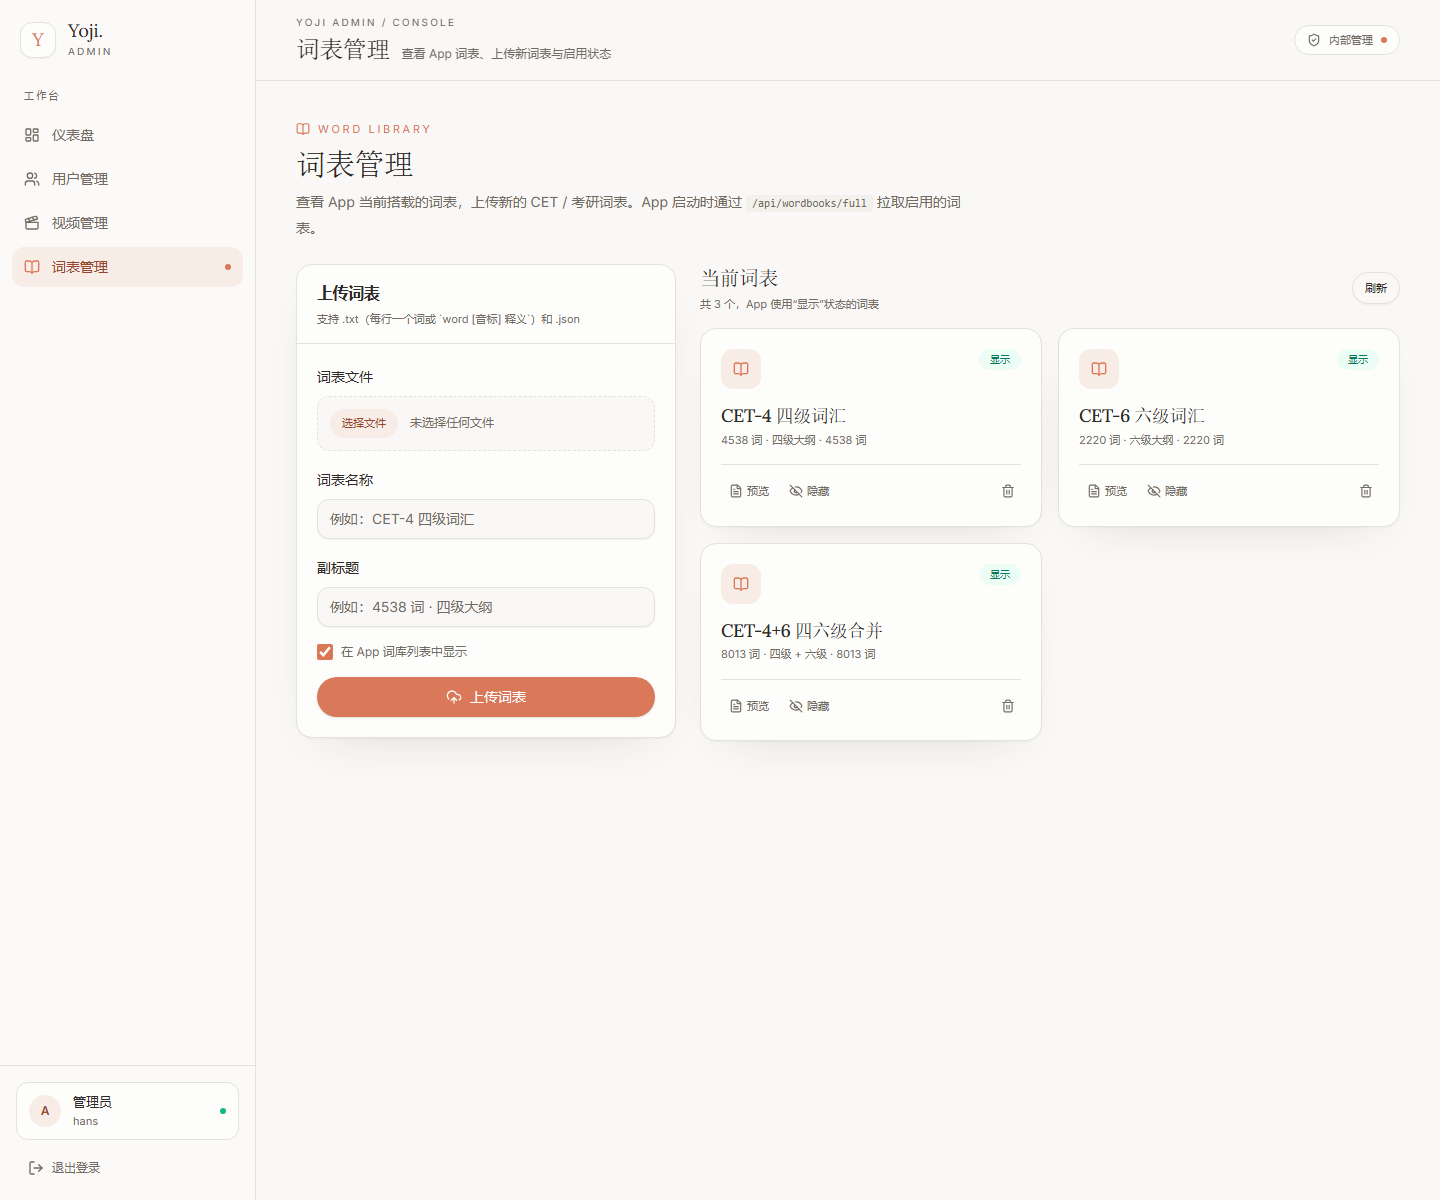
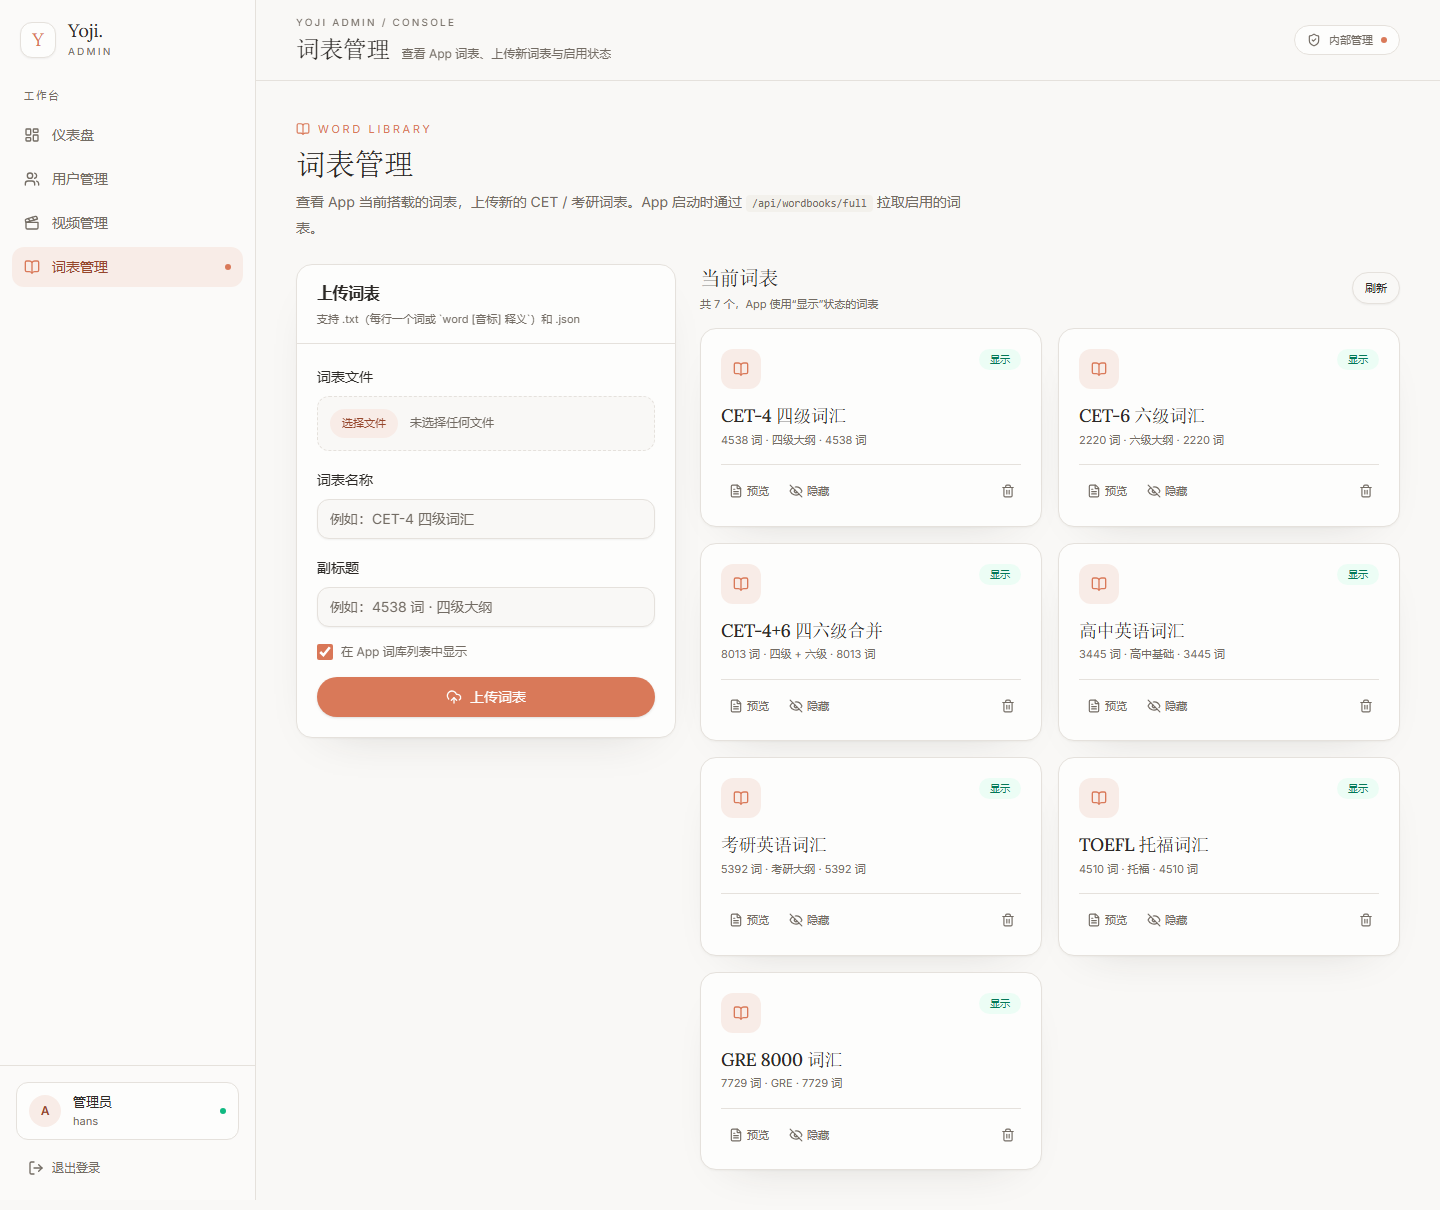
feat: expand wordbooks to high school, postgraduate, TOEFL and GRE

diff --git a/server/scripts/import-wordbooks.js b/server/scripts/import-wordbooks.js
@@ -13,19 +13,28 @@ function readIfExists(name) {
 
 const cet4Text = readIfExists('CET4_edited.txt');
 const cet6Text = readIfExists('CET6_edited.txt');
-const cet46Text = readIfExists('CET_4+6_edited.txt');
 if (!cet4Text || !cet6Text) {
-  console.error(`找不到词表文件，请确认目录：${dir}`);
+  console.error(`找不到 CET4_edited.txt / CET6_edited.txt，请确认目录：${dir}`);
   process.exit(1);
 }
 
 const cet4 = parseWordList(cet4Text, 'cet4');
 const cet6 = parseWordList(cet6Text, 'cet6');
-const cet46 = cet46Text ? parseWordList(cet46Text, 'cet4-6') : [];
+const cet46 = parseWordList(readIfExists('CET_4+6_edited.txt'), 'cet4-6');
+const high = parseWordList(readIfExists('Highschool_edited.txt'), 'highschool');
+const npee = parseWordList(readIfExists('NPEE_Wordlist.txt'), 'npee');
+const toefl = parseWordList(readIfExists('TOEFL.txt'), 'toefl');
+const gre = parseWordList(readIfExists('GRE_8000_Words.txt'), 'gre');
 const kyle4 = parseWordList(readIfExists('cet4_kyle.txt'), 'kyle4');
 const kyle6 = parseWordList(readIfExists('cet6_kyle.txt'), 'kyle6');
+const oald = parseWordList(readIfExists('OALD8_abridged_edited.txt'), 'oald');
+
+const dictionaries = [cet4, cet6, npee, toefl, gre, oald, kyle4, kyle6];
 if (cet46.length > 0) {
-  enrichWords(cet46, [cet4, cet6, kyle4, kyle6]);
+  enrichWords(cet46, dictionaries);
+}
+if (high.length > 0) {
+  enrichWords(high, dictionaries);
 }
 
 const books = [
@@ -49,17 +58,58 @@ const books = [
   }
 ];
 
-if (cet46.length > 0) {
-  books.push({
-    id: 'cet4-6',
-    name: 'CET-4+6 四六级合并',
-    subtitle: `${cet46.length} 词 · 四级 + 六级`,
-    description: '四级与六级合并词表；能匹配到的词已补充释义。',
-    source: 'CET_4+6_edited.txt',
-    words: cet46,
-    sortOrder: 3
-  });
+function addBook(id, name, subtitle, description, source, words, sortOrder) {
+  if (words.length === 0) {
+    return;
+  }
+  books.push({ id, name, subtitle, description, source, words, sortOrder });
 }
+
+addBook(
+  'cet4-6',
+  'CET-4+6 四六级合并',
+  `${cet46.length} 词 · 四级 + 六级`,
+  '四级与六级合并词表；已用考研/托福/GRE/OALD 补充能匹配到的释义。',
+  'CET_4+6_edited.txt',
+  cet46,
+  3
+);
+addBook(
+  'highschool',
+  '高中英语词汇',
+  `${high.length} 词 · 高中基础`,
+  '高中英语常用词汇，适合作为四六级前的过渡词库。',
+  'Highschool_edited.txt',
+  high,
+  4
+);
+addBook(
+  'npee',
+  '考研英语词汇',
+  `${npee.length} 词 · 考研大纲`,
+  '考研英语大纲词汇，含音标与中文释义。',
+  'NPEE_Wordlist.txt',
+  npee,
+  5
+);
+addBook(
+  'toefl',
+  'TOEFL 托福词汇',
+  `${toefl.length} 词 · 托福`,
+  'TOEFL 托福词汇，含音标与中文释义。',
+  'TOEFL.txt',
+  toefl,
+  6
+);
+addBook(
+  'gre',
+  'GRE 8000 词汇',
+  `${gre.length} 词 · GRE`,
+  'GRE 常考词汇，含音标与中文释义。',
+  'GRE_8000_Words.txt',
+  gre,
+  7
+);
 
 for (const book of books) {
   const saved = saveWordBook({ ...book, visible: true });

diff --git a/docs/wordbooks.md b/docs/wordbooks.md
@@ -1,4 +1,4 @@
-# 词表功能说明（2026-10-22）
+# 词表功能说明（2026-11-10）
 
 ## 已上线词表
 
@@ -9,15 +9,22 @@
 | CET-4 四级词汇 | 4538 | `CET4_edited.txt` |
 | CET-6 六级词汇 | 2220 | `CET6_edited.txt` |
 | CET-4+6 四六级合并 | 8013 | `CET_4+6_edited.txt` |
+| 高中英语词汇 | 3445 | `Highschool_edited.txt` |
+| 考研英语词汇 | 5392 | `NPEE_Wordlist.txt` |
+| TOEFL 托福词汇 | 4510 | `TOEFL.txt` |
+| GRE 8000 词汇 | 7729 | `GRE_8000_Words.txt` |
 
-`CET-4+6` 中约 1843 个词在源文件及补充词典中没有中文释义，App 仍会显示单词，释义为空；后续可上传带释义的 JSON 覆盖。
+总计约 **3.5 万词条**。`CET-4+6` 仍有约 1102 个词、高中词表有约 184 个词没有中文释义；App 会显示单词，释义为空，后续可用带释义的 JSON 覆盖。
 
 ## App 如何拿到词表
 
 1. 启动页 `SplashPage` 初始化 Store 后请求 `GET /api/wordbooks/full`；
 2. 成功后替换内置 `BOOKS` / `SELECTABLE_BOOKS`；
 3. 失败则保留 App 内置 60 词兜底，不影响使用；
-4. 词库选择页直接显示后台启用的词表。
+4. 词库选择页直接显示后台启用的词表；
+5. 词库页右上角有“刷新”，后台新增词表后不用杀 App。
+
+`/api/wordbooks/full` 当前约 4.7MB，Nginx gzip 后约 1.1MB。
 
 ## 后台上传格式
 
@@ -46,7 +53,7 @@ ability [əˈbɪləti] n. 能力
 }
 ```
 
-上传后 App 需要**重启**（或重新进入启动页）才会拉取新词表。
+上传后 App 重启，或在词库页点右上角“刷新”即可拉取新词表。
 
 ## 后台接口
 

diff --git a/docs/wordlists.md b/docs/wordlists.md
@@ -2,13 +2,17 @@
 
 当前 App 的 `WordData.ets` 只有约 60 个四级核心词，继续扩展建议不要手工维护，直接用现成词库 + 导入脚本。
 
-> **2026-10-22 已导入后台词表：**
+> **2026-11-10 已扩充后台词表：**
 >
 > - `CET-4 四级词汇`：4538 词
 > - `CET-6 六级词汇`：2220 词
-> - `CET-4+6 四六级合并`：8013 词（其中 1843 个词在源词表/补充词典中没有释义，App 仍可显示单词）
+> - `CET-4+6 四六级合并`：8013 词，约 1102 个词暂无中文释义
+> - `高中英语词汇`：3445 词
+> - `考研英语词汇`：5392 词
+> - `TOEFL 托福词汇`：4510 词
+> - `GRE 8000 词汇`：7729 词
 >
-> 后台地址：<http://120.24.171.99/wordbooks/> 或 <https://yoji.zhdstudy.cyou/wordbooks/>。App 启动时请求 `/api/wordbooks/full` 获取启用的词表。
+> 后台地址：<http://120.24.171.99/wordbooks/> 或 <https://yoji.zhdstudy.cyou/wordbooks/>。App 启动时请求 `/api/wordbooks/full` 获取启用的词表；词库页可点“刷新”。
 
 ## 一、首选：ECDICT（开源、可离线、MIT）
 

diff --git a/docs/api-modules-and-troubleshooting.md b/docs/api-modules-and-troubleshooting.md
@@ -133,8 +133,12 @@ Content-Type: application/octet-stream
 | `cet4` | CET-4 四级词汇 | 4538 |
 | `cet6` | CET-6 六级词汇 | 2220 |
 | `cet4-6` | CET-4+6 四六级合并 | 8013 |
+| `highschool` | 高中英语词汇 | 3445 |
+| `npee` | 考研英语词汇 | 5392 |
+| `toefl` | TOEFL 托福词汇 | 4510 |
+| `gre` | GRE 8000 词汇 | 7729 |
 
-`/api/wordbooks/full` 约 1.9MB；App 启动时拉取，失败保留内置 60 词。
+`/api/wordbooks/full` 约 4.7MB（gzip 后约 1.1MB）；App 启动时拉取，失败保留内置 60 词。
 
 ---
 
@@ -621,7 +625,7 @@ pm2 save
 - 后台：`http://120.24.171.99/`、`https://yoji.zhdstudy.cyou/`
 - 测试管理员：`hans / 123456`、`zhd / 123456`
 - 超级管理员：`admin` / `.env` 的 `ADMIN_TOKEN`
-- 词表：CET4 4538、CET6 2220、CET4+6 8013
+- 词表：7 个（CET4/CET6/CET4+6/高中/考研/TOEFL/GRE，约 3.5 万词）
 - 视频：3 个（含 `【TED-Ed】`）
 - 后端测试：`npm test` 11/11
 - 关键文档：
